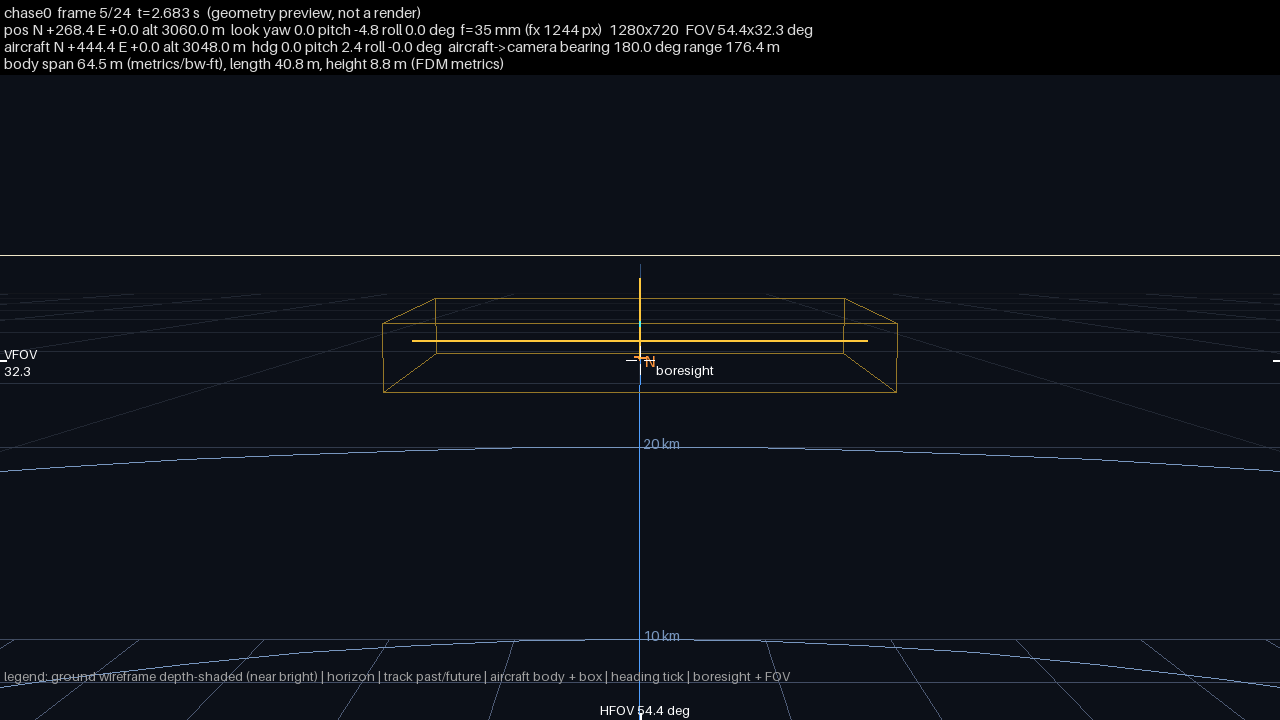
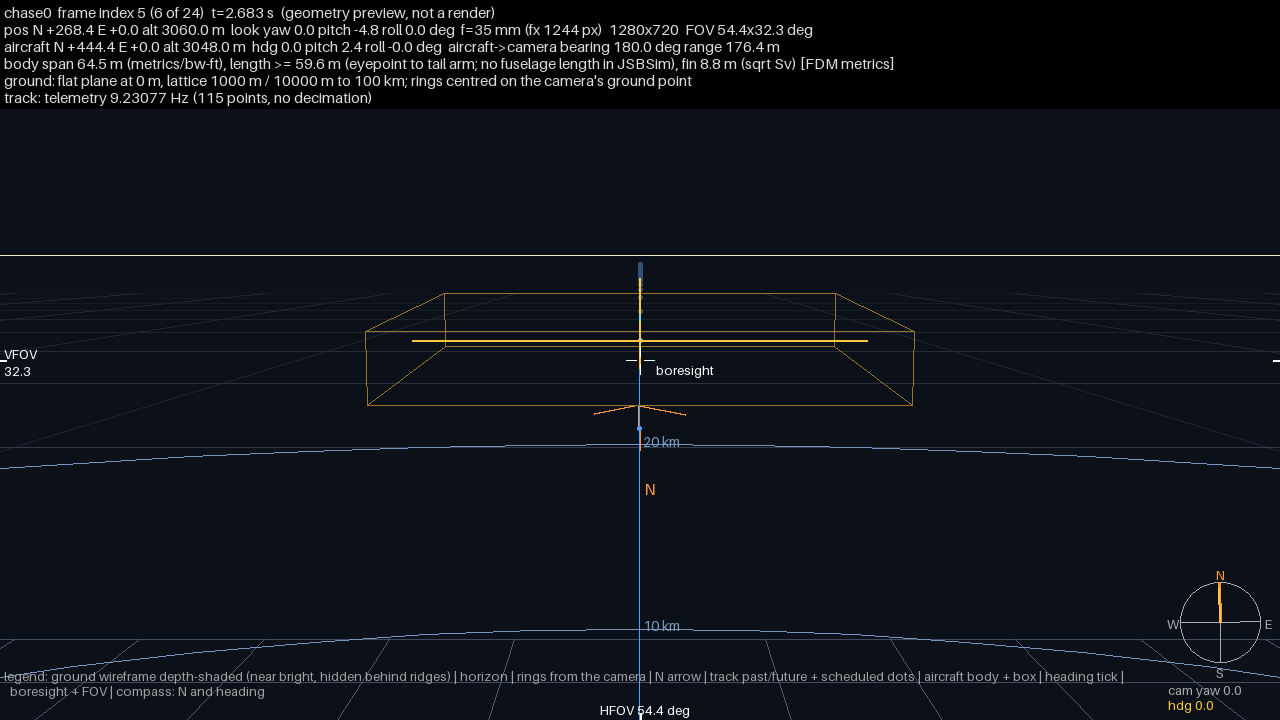
Docs: the round-2 preview described element by element with its measured numbers, the guard verification state stated honestly, a fresh reference image
The report's "Geometry preview" section is rewritten for round 2
(sources per element, the station-based length, 0.068 / 0.076 / 0.053
s/frame measured, the 32 tests, the overlay step 5c words), the
expected CLI output carries the track_source words, Known limitations
gains the skyline's coarse-spacing limit, the arrow cap and the
undecimated track. The reference image is frame index 5 of a fresh
cameras_multi run with this code (arrow 44.8 px, 10 km ring at row
629). The guard subset output as far as it ran (11 of 38, all ok) is
pasted and the 21 unverified guards are named as such. NEXT.md carries
the resume note and the first thing to run next session.

Claude-Session: https://claude.ai/code/session_01CxHEpg2pxDwukSHvSEVUfB

diff --git a/docs/CAMERA_PHASE1_REPORT.md b/docs/CAMERA_PHASE1_REPORT.md
@@ -89,7 +89,7 @@ table. Now:
 .venv/bin/python -m flightsim.verify runs/demo
 ```
 
-Expected without the engine (measured 2026-09-03 on Linux, exit 0;
+Expected without the engine (measured 2026-09-04 on Linux, exit 0;
 the JSBSim banner omitted; the default render choice resolves to
 `none` there, so `--render none` is implied):
 
@@ -97,7 +97,7 @@ the JSBSim banner omitted; the default render choice resolves to
 spec cef57d752362381d valid; running headlessly...
 scheduled 48 frames across 2 camera(s)
   manifest: runs/demo/capture_manifest.json
-  previews: 48 geometry preview(s) at 1280x720, 0.049 s/frame under runs/demo/previews (previews are not frames)
+  previews: 48 geometry preview(s) at 1280x720, 0.068 s/frame under runs/demo/previews (previews are not frames; track: telemetry 9.23077 Hz (115 points, no decimation))
   contact sheets: 2 (contact_sheets/<camera_id>.png, one per camera)
   [PASS] manifest_version: manifest_version 1, spec cef57d752362381d
   [PASS] fields_finite: 48 frame records checked
@@ -146,7 +146,7 @@ Temporal alignment across camera sets is exercised on real telemetry by
 same spec captured with a chase+tower set and again with a cockpit set
 aligns frame-for-frame (`flightsim.verify --against`).
 
-## Geometry preview (package I, done properly 2026-09-04)
+## Geometry preview (package I, done properly 2026-09-04; round 2 the same day)
 
 `core/capture/preview.py` draws one PNG per scheduled frame with numpy
 and Pillow only (matplotlib is not a dependency), every element
@@ -157,25 +157,41 @@ What a reader sees, and the field each element comes from:
 
 | element | drawn as | source |
 |---|---|---|
-| terrain (terrain scenes) | a 48 x 48 wireframe of the raster, each sample joined to its row and column neighbour, clipped at the near plane and to the image, shaded by camera-space depth: 240 at the frame's subject range (camera to aircraft) falling on a log scale to 32 at `far_m` | the heightfield, `near_m`, `far_m`, the aircraft state |
-| ground grid (flat scenes) | a fine lattice (step = the nice number at or above height/4) and a coarse one (10x that step) on the plane at the spec's terrain elevation, centred beneath the camera, extent = min(`far_m`, fy x height / 2) so it reaches the horizon or the far plane; distance rings at 500 m, 1, 2, 5, 10, 20 km labelled; a north arrow one step long where the boresight meets the plane | `position_*_m`, `fy_px`, `far_m`, the spec's terrain elevation |
+| terrain (terrain scenes) | a wireframe of the raster sampled every `terrain_stride_px` raster pixels (the smallest multiple of 4 giving at most 48 samples per axis: `control_ridge` 1024 px at 30 m is stride 24, 720 m, 43 x 43), each sample joined to its row and column neighbour, PLUS a fine lattice at a quarter of that stride (180 m) within 10 coarse steps (7.2 km) of the camera's ground point, so the near ground reads at the scale the aircraft is drawn; clipped at the near plane and to the image; shaded by camera-space depth: 240 at the frame's subject range (camera to aircraft) falling on a log scale to 32 at `far_m`; drawn far to near (painter's order) and HIDDEN behind nearer ground by a per-column skyline (`skyline_cull`: walking the segments near to far, each image column keeps the highest point drawn so far and a farther sample below it is behind a ridge) | the heightfield (name, size, pixel size: `Heightfield.metadata`), `near_m`, `far_m`, the aircraft state |
+| ground grid (flat scenes) | a fine lattice (step = the nice number at or above height/4) and a coarse one (10x that step) on the plane at the spec's terrain elevation, origin snapped to the step, extent = min(`far_m`, fy x height / 2) so it reaches the horizon or the far plane | `position_*_m`, `fy_px`, `far_m`, the spec's terrain elevation |
+| distance rings (every scene) | rings at 500 m, 1, 2, 5, 10, 20 km around the camera's EXACT ground point (never the snapped lattice origin: a ring labelled "10 km" is 10 km from the camera), labelled; in terrain scenes DRAPED on the raster (every ring point at the raster's elevation) and hidden behind ridges with the wireframe | `position_*_m`; the raster |
+| north arrow (every scene) | a world-space arrow on the ground pointing north, its world length set so its PROJECTION spans 60 px (capped at 0.3 x the base's depth when north is foreshortened to nothing), based where the ray 90 px below the boresight meets the ground (plane, or raster marched and bisected) so it sits clear of the aircraft an aimed camera centres; its "N" label placed clear of other labels (a label within 20 px of one already placed is shifted down) | the pose, the ground |
+| compass rose (every scene) | image-space, bottom-right, 40 px: the N/E/S/W spokes with north at screen angle -yaw (clockwise from up; a camera yawed 90 east has north to its left) and the aircraft's heading as a second needle at heading - yaw, both numbered ("cam yaw 231.3", "hdg 0.0") | `yaw_deg`, `aircraft.heading_deg` |
 | horizon | the level directions at infinity projected: `v = cy + fy tan(pitch)` for a level-rolled camera (a camera pitched down sees it ABOVE centre), tilted by roll | `quaternion_wxyz`, intrinsics |
-| aircraft | a three-axis body: nose-tail along the recorded heading and pitch, wing tips at +/- span/2 with the recorded roll, a fin up from the centre; the length x span x height box; a heading tick beyond the nose; the flown track (past solid, future dim) | `aircraft.*` per frame; `aircraft_metrics` (below) |
+| aircraft | a three-axis body: nose-tail along the recorded heading and pitch, wing tips at +/- span/2 with the recorded roll, a fin up from the centre; the length x span x height box; a heading tick beyond the nose | `aircraft.*` per frame; `aircraft_metrics` (below) |
+| flown track | the run's TELEMETRY (`telemetry_track`: the recorder's samples in the scene frame, decimated by the integer stride that brings the rate to at or below 10 Hz, never interpolated; the rate MEASURED as the recorder's median step, 9.23 Hz for this recorder's 13-step spacing), past solid and future dim split at the frame's `t_s`, with this camera's scheduled instants as dots on the line; without telemetry (a synthetic manifest) the manifest's scheduled instants, and the header says which | `telemetry.json` columns `t`, `lat_deg`, `lon_deg`, `altitude_m`; the frame records |
 | camera | a boresight cross at `principal_point_px` with the FOV `2 atan(sensor / 2 focal)` printed at the edges | `principal_point_px`, focal, sensor |
-| header | camera id, frame index / capture count, t, position, look yaw/pitch/roll, focal and fx, resolution, FOV; the aircraft's position, attitude, the aircraft-to-camera bearing and range; the body's span, length and height with their sources | the record; the camera block |
+| header | camera id, "frame index 5 (6 of 24)" (the manifest's 0-based index a verifier greps for AND the human count), t, position, look yaw/pitch/roll, focal and fx, resolution, FOV; the aircraft's position, attitude, the aircraft-to-camera bearing and range; the body's span, length (with its caveat, below) and fin with their sources; the ground ("terrain control_ridge 1024x1024 @ 30 m, wireframe 43x43 (720 m) + 180 m within 7.2 km of the camera; rings on the terrain", or the flat lattice's steps and extent); the track's source. Font and line height derive from the image height (15 px at 720, 8 at 360, 22 at 1080) and a line wider than the image is wrapped at its field separators | the record; the camera block; the heightfield; the telemetry |
 
 **The airframe metrics are read once from the FDM, never a constant**:
 `core.scenario.runner.aircraft_metrics(fdm)` reads `metrics/bw-ft`
-(span; the same property the span-station contact check uses),
-`metrics/lh-ft` + `metrics/cbarw-ft` (the wing-to-tail arm plus one
-mean chord: the FDM's longitudinal extent -- JSBSim states no
-nose-to-tail length, and the source string says so) and
+(span; the same property the span-station contact check uses) and
 `sqrt(metrics/Sv-sqft)` (the vertical tail area's square side: the
-FDM's only vertical extent). The run manifest and the capture manifest
-carry the block as `aircraft_metrics` (B747: span 64.47 m, length
-40.82 m, height 8.78 m). A manifest without it (a synthetic one) gets
-a fixed cross and a header line "aircraft_metrics absent: body
-unscaled" -- never a silent guess.
+FDM's only vertical extent). JSBSim states no nose-to-tail length, so
+the longitudinal extent is the LARGER of two distances between stations
+the FDM does state, each a lower bound on the fuselage: the extent of
+the stated structural stations (`metrics/eyepoint-x-in`,
+`metrics/visualrefpoint-x-in`, `metrics/aero-rp-x-in`, `inertia/cg-x-in`
+and the tail arm `metrics/aero-rp-x-in` + 12 x `metrics/lh-ft`), and
+the wing-to-tail arm plus one mean chord (`metrics/lh-ft` +
+`metrics/cbarw-ft`). Measured: B747 eyepoint 308 in to tail arm 2656 in
+= 59.6 m (arm + chord 40.8 m; the real fuselage is 70.7 m), c172p arm +
+chord 6.3 m (stations 4.9 m; real 8.3 m). The block carries
+`length_label` ("eyepoint to tail arm" / "arm + chord"),
+`length_caveat` ("no fuselage length in JSBSim"), both candidates
+(`length_candidates_m`) and a source string naming every station in
+inches; the picture's body line reads "length >= 59.6 m (eyepoint to
+tail arm; no fuselage length in JSBSim)" so a reader of the PNG alone
+sees the caveat. The run manifest and the capture manifest carry the
+block as `aircraft_metrics` (B747: span 64.47 m, length 59.64 m,
+height 8.78 m). A manifest without it (a synthetic one) gets a fixed
+cross and a header line "aircraft_metrics absent: body unscaled" --
+never a silent guess.
 
 **Resolution.** Full output resolution by default (the record's
 `width_px` x `height_px`); `--preview-scale N` on the CLI and the
@@ -183,42 +199,62 @@ page's "preview scale 1/N" field draw at 1/N, the header and the CLI
 line say so only when N is not 1, and a value that is not a positive
 integer is refused by name (`preview.scale`) before any flight.
 
-**Measured render time** (this machine, Linux, 2026-09-04, the 48
-frames of `examples/cameras_multi.yaml`, flat scene): 0.049 s/frame at
-1280x720 including the lattice, rings, track, body and header; 0.029
-s/frame at 1/2 scale; 0.064 s/frame including the contact sheets. The
-budget is 0.5 s/frame (`RENDER_BUDGET_S_PER_FRAME`), graded by
+**Measured render time** (this machine, Linux, 4 cores, 2026-09-04,
+round 2): 0.068 s/frame for the 48 frames of `examples/cameras_multi.yaml`
+at 1280x720 (flat scene: lattice, rings, arrow, compass, telemetry
+track, body, header); 0.076 s/frame for the 5 frames of
+`examples/cameras_waypoint.yaml` (280-point telemetry track); 0.053
+s/frame on the `control_ridge` terrain frame (chase0 index 5: 418
+coarse segments in frame, 98 hidden by the skyline, 38 fine, one ring)
+measured over 10 draws with `draw_preview` alone, 0.135 s/frame for
+the 30-preview CLI run of that scene before the raster sampling and
+the header measurement were vectorised (the profile: text measurement
+and `Heightfield.elevations()` per frame). The budget is 0.5 s/frame
+(`RENDER_BUDGET_S_PER_FRAME`), graded by
 `tests/test_camera_preview.py::test_full_resolution_render_time_is_under_budget`
-and printed by every run ("0.049 s/frame"); `run.json` `previews`
-records it.
+and printed by every run ("0.068 s/frame"); `run.json` `previews`
+records it, with `track_source`.
 
 **Overlays** (`overlays/<camera_id>/NNNN.png`): after an engine pass,
 `render_overlays` draws the same geometry as a translucent layer over
-every rendered PNG that exists (named by the same index, the frame's
-own size): the reprojected aircraft box, the ground and the horizon on
-the engine's pixels, so the verification is visible to the eye. The
-CLI prints "overlays: 48 reprojected-geometry overlay(s) ... (0.0xx
-s/frame)" and records `overlays {count, s_per_frame}` in `run.json`;
-the page lists `capture/overlays/<camera_id>` with the note
-"reprojected geometry over the rendered frame". Exercised here only
-against the honest engine STUB (a blob at the labelled pixel);
-"awaiting Windows verification" on real pixels, step 5c below.
+every rendered PNG that exists (named by the same index) at the
+frame's OWN size, whatever it is: a frame whose size differs from its
+record is drawn through the record's intrinsics scaled per axis by
+the actual ratio (fx and cx by width, fy and cy by height) and its
+header says so ("frame 640x360 differs from the record's 1280x720:
+intrinsics scaled to the frame, pixels not resampled"); the rendered
+pixels are never resampled, and the verifier, not the overlay, grades
+the mismatch. The header band is no darker than 96/255
+(`OVERLAY_BAND_ALPHA`). The CLI prints "overlays: 48
+reprojected-geometry overlay(s) ... (0.0xx s/frame)" and records
+`overlays {count, s_per_frame}` in `run.json`; the page lists
+`capture/overlays/<camera_id>` with the note "reprojected geometry
+over the rendered frame". Exercised here only against the honest
+engine STUB (a blob at the labelled pixel); "awaiting Windows
+verification" on real pixels, step 5c below.
 
 **Contact sheets** (`contact_sheets/<camera_id>.png`, beside
 `previews/`, never inside it -- `previews/` holds exactly one PNG per
 drawn frame): every preview of the camera as a 320-px-wide thumbnail
-with its index and time, a title row with camera id, preset, schedule
-basis and "N of M frames". Listed by the CLI and shown whole on the
-page above the per-frame gallery.
+labelled "#5 (6/24)  t=2.683 s" (index and count), a title row with
+camera id, preset, schedule basis and "N of M frames". Listed by the
+CLI and shown whole on the page above the per-frame gallery.
 
-**Reference image**: `docs/images/preview_chase0_frame5.png` is frame 5
-of `chase0` from the command above (t=2.683 s, camera at N +268.4, alt
-3060 m, pitch -4.8 deg): the horizon at row 256 (= 360 + 1244 tan(-4.8
-deg)), the 747's 64.5 m span drawn 455 px wide at 176 m range
-(1244 x 64.5 / 176 = 456), the box around it, the boresight cross, the
-10 km and 20 km rings and the coarse lattice dim in the distance.
+**Reference image**: `docs/images/preview_chase0_frame5.png` is frame
+index 5 of `chase0` from the command above (t=2.683 s, camera at N
++268.4, alt 3060 m, pitch -4.8 deg): the horizon at row 256 (= 360 +
+1244 tan(-4.8 deg)), the 747's 64.5 m span drawn 455 px wide at 176 m
+range (1244 x 64.5 / 176 = 456), the 59.6 m box around it, the
+boresight cross, the 10 km ring at row 629 (= 360 + 1244 tan(atan(3060
+/ 10000) - 4.8 deg): 10 km from the camera, not 10.27 km from the
+snapped lattice origin), the 20 km ring, the telemetry track through
+the aircraft with the scheduled dots, the north arrow 90 px below the
+boresight (45 px long: its base is 19.6 km out where north is
+foreshortened, and the 0.3 x depth cap, 5.9 km, holds it under 60 px), the compass with N up (yaw 0) and the
+heading needle on it, the coarse lattice dim in the distance. Byte-
+identical to a fresh run of the command (`cmp`).
 
-**Tests** (`tests/test_camera_preview.py`, 20 tests on synthetic
+**Tests** (`tests/test_camera_preview.py`, 32 tests on synthetic
 records with known poses): the level camera's horizon row equals cy
 within 1 px and a ground point ahead lands below it; pitch -10 deg
 moves it by fy tan(pitch); the body centre equals `project_point` of
@@ -227,11 +263,70 @@ range within 1 px and halves at twice the range; roll and heading move
 the tips and nose as recorded; a segment behind the camera is not
 drawn, even when its mirrored projection would land in frame; the
 default size is the record's; the header carries the position, look
-and focal strings; the overlay is the frame's size with the body at
-the reprojected pixel; one contact sheet per camera with one thumbnail
-per frame; the render time is under budget. 15 mutation guards
-(`scripts/mutation_check.sh`, "the geometry preview") disable each
-safeguard in turn and were verified to fail their tests.
+and focal strings and the exact "frame index 5 (6 of 24)"; the overlay
+is the frame's size with the body at the reprojected pixel; one
+contact sheet per camera with one thumbnail per frame; the render time
+is under budget. Round 2 adds: two crossing segments given far-last
+leave the near colour on the crossing pixel; a two-ridge heightfield
+(near 300 m at 1 km, far 150 m at 2 km) hides the far crest where it
+crosses the near face (the near column line's bright green is on that
+pixel, the far row's dim green is nowhere in its 3x3 window, and the
+far crest is background along the frame); a 200-point half-circle
+telemetry at 20 Hz is decimated to 101 points at 10 Hz with the words
+"track: telemetry 20 Hz decimated to 10 Hz (101 points)", intermediate
+(never scheduled) points lie on the drawn track in the past colour
+before the frame's instant and the future colour after, the chord
+midpoint between two instants (90 m inside the arc) is background, and
+the recorder's median step, not the mean, sets the rate; the 10 km
+ring's forward point projects at cy + fy tan(atan(3060/10000) - 4.8
+deg) within 1 px (9.6 px from the snapped value) and the pixel there is
+ring-coloured; the compass's N spoke sits at -yaw for yaw 0, 90 and
+231.3 and its pixel is north-coloured, the heading needle at heading -
+yaw; the north arrow is 60 px on screen within 1 px in a flat and a
+terrain scene with its base on the ground at the pixel 90 px below
+the boresight; a 640x360 and a 1920x1080 frame against a 1280x720
+record get overlays of their own size with the body centre at
+`project_point` times the ratio within 1 px, a corner pixel unchanged,
+the band no darker than 96/255 and no header line wider than the
+frame; the terrain header names the raster ("terrain synthetic 9x9 @
+100 m, wireframe 9x9 (100 m)"), a raster vertex projects at its pixel
+in terrain green, and the 500 m ring is draped on the raster and drawn;
+the fine lattice lies within its radius at the raster's spacing and
+never on a coarse line; the body line carries the caveat; the runner's
+B747 length is 59.644 m from the named stations with both candidates.
+The CLI and page tests assert the run's `track_source` equals the
+words computed from the run's own telemetry. 36 mutation guards
+(`scripts/mutation_check.sh`, "the geometry preview" and "preview round
+2") disable each safeguard in turn; the runner's `--only <label regex>`
+runs a named subset. **Verification state, honestly**: the round-2
+subset run (38 guards: the 15 round-1 preview guards, two of them
+repointed to lines the rewrite moved, one pre-existing stale CLI guard
+repointed, the two frames-provenance guards and the 21 new round-2
+guards) was stopped after 11 guards, all 11 firing, when the session
+was closed; its output as far as it got:
+
+```
+  ok    a frames run records its passes and its clip in provenance -- tests fail with the guard removed
+  ok    the CLI records its passes and its clip beside the run's digests -- tests fail with the guard removed
+  ok    the preview draws the horizon at the camera's pitch and roll -- tests fail with the guard removed
+  ok    the aircraft body is scaled by the FDM's span at the frame's range -- tests fail with the guard removed
+  ok    a segment behind the camera is never drawn -- tests fail with the guard removed
+  ok    previews default to the record's full resolution -- tests fail with the guard removed
+  ok    a preview scale that is not a positive integer refuses by name -- tests fail with the guard removed
+  ok    the ground is depth-shaded, near bright and far dim -- tests fail with the guard removed
+  ok    the header states position, look direction and focal length -- tests fail with the guard removed
+  ok    every camera gets a contact sheet of its previews -- tests fail with the guard removed
+  ok    the preview render time is measured per frame and recorded -- tests fail with the guard removed
+  ok    the run manifest carries the airframe metrics read from the FDM -- tests fail with the guard removed
+  ok    the capture manifest carries the airframe metrics the body is scaled by -- tests fail with the guard removed
+```
+
+The 21 round-2 guards are written against target strings verified to
+be present in the source and each names the test that grades its
+safeguard, but they have NOT been run through the runner: until
+`./scripts/mutation_check.sh --only 'preview round 2'` prints "ok" for
+each, they are not verified firing, and this document says so rather
+than counting them.
 
 ## The run emits frames, not a clip (finished 2026-09-03)
 
@@ -493,7 +588,7 @@ spec cef57d752362381d valid; running headlessly...
   card:     runs\demo\card.json (consume-poses; one commandlet pass per camera via -camera-index=N)
 scheduled 48 frames across 2 camera(s)
   manifest: runs\demo\capture_manifest.json
-  previews: 48 geometry preview(s) at 1280x720, 0.0xx s/frame under runs\demo\previews (previews are not frames)
+  previews: 48 geometry preview(s) at 1280x720, 0.0xx s/frame under runs\demo\previews (previews are not frames; track: telemetry 9.23077 Hz (115 points, no decimation))
   contact sheets: 2 (contact_sheets/<camera_id>.png, one per camera)
 engine pass 1 of 2: camera 'chase0', 24 frames scheduled over the 12 s run (-camera-index=0)
   camera 'chase0': 24 of 24 scheduled frames rendered under runs\demo\frames\chase0 (engine stepped 11.992 s in 1439 steps)
@@ -715,15 +810,26 @@ start runs\demo\overlays\chase0\0005.png
 start runs\demo\overlays\tower0\0010.png
 ```
 
-The count must print 24 (and 24 for tower0). In `chase0\0005.png` the
-yellow wing line (64.5 m at 176 m range: 455 px wide) must lie across
-the rendered 747's wings and the box enclose the fuselage, to within
+The count must print 24 (and 24 for tower0). In `chase0\0005.png` (the
+header reads "frame index 5 (6 of 24)") the yellow wing line (64.5 m
+at 176 m range: 455 px wide) must lie across the rendered 747's wings
+and the 59.6 m box enclose most of the fuselage (the box is the FDM's
+eyepoint-to-tail-arm extent, 11 m short of the real 70.7 m, and the
+header says "no fuselage length in JSBSim"), to within
 the frame's graded pixel budget the verifier prints ("aircraft drawn
 within x.xx m", about 10 px at this range); the horizon line must run
 along the rendered horizon (the flat scene's ground plane edge) and the
-lattice recede toward it. In `tower0\0010.png` the aircraft is 3 km
-away: a 26 px span line on the rendered aircraft, the track line along
-its path, no horizon in frame (the tower looks up 75 deg). A wing line
+lattice recede toward it; the blue track through the aircraft must be
+the flown path (the telemetry, 115 points) with the 24 scheduled dots
+on it, and the header band at the top must leave the rendered pixels
+readable through it (alpha 96/255, not black). In `tower0\0010.png` the
+aircraft is 3 km away: a 26 px span line on the rendered aircraft, the
+track line along its path, no horizon in frame (the tower looks up 75
+deg), the compass in the corner with N at -94.1 deg (the tower's yaw).
+A frame the engine wrote at a size other than the record's gets its
+overlay at the frame's own size with the intrinsics scaled and a
+header note saying so -- if that note appears, the engine's resolution
+setting, not the overlay, is what to check. A wing line
 beside, not on, the rendered aircraft is the SAME disagreement engine
 parity grades numerically, and the frame's `render.json` record says
 which side (`aircraft_px` against the manifest's labelled pixel); a
@@ -793,14 +899,33 @@ Paste every log back; this section is rewritten from them.
   only; there is no frames-mode cap, by design: the schedule is the
   contract.
 * The geometry preview's aircraft is a three-axis body and a box, not
-  a silhouette, and its LENGTH is the FDM's wing-to-tail arm plus one
-  mean chord (40.8 m for the B747, whose fuselage is 70.7 m) because
-  JSBSim states no nose-to-tail length; the header and the manifest
-  say exactly which metric each dimension is. The span (metrics/bw-ft)
-  is the airframe's own.
+  a silhouette, and its LENGTH is a lower bound: the larger of the
+  FDM's stated-station extent (eyepoint to tail arm, 59.6 m for the
+  B747 whose fuselage is 70.7 m) and the wing-to-tail arm plus one
+  mean chord (6.3 m for the c172p, whose fuselage is 8.3 m), because
+  JSBSim states no nose-to-tail length; the picture's header says
+  ">= ... (no fuselage length in JSBSim)" and the manifest names every
+  station. The span (metrics/bw-ft) is the airframe's own.
 * The overlays have been drawn over the honest engine stub only; over
   real rendered pixels they are NOT YET RUN (step 5c above).
-* Terrain scenes have no distance rings or north arrow (the wireframe
-  and the horizon carry the scale there); flat scenes have both.
+* The terrain skyline cull hides ground behind nearer ground per image
+  column from the wireframe's own samples: a ridge narrower than the
+  coarse spacing (720 m on control_ridge) between two sample rows does
+  not occlude, and a farther sample within 1 px of the skyline is kept
+  (`SKYLINE_TOLERANCE_PX`). The fine lattice near the camera (180 m)
+  narrows that gap only within 7.2 km. The cull orders samples by
+  their camera depth interpolated linearly along each segment, not
+  perspective-correctly; over a 720 m segment that is a metre-scale
+  depth error, far below the 1 px tolerance at the ranges drawn.
+* The north arrow's world length is set by its projected size and
+  capped at 0.3 x its base's depth: where north is foreshortened to
+  nothing (the flat chase view's arrow base 36 km out) it is shorter
+  than 60 px (45 px there) and the compass rose carries the
+  orientation; the header's compass numbers are the record's yaw and
+  heading, never estimated from the arrow.
+* The telemetry track is decimated by an integer stride to at most
+  10 Hz and never interpolated; the recorder's own spacing (13 fixed
+  steps, 9.23 Hz) is below that, so today's tracks are undecimated and
+  the header says so.
 * Segmentation masks, bounding boxes, domain randomization, batch
   execution: out of scope, untouched.

diff --git a/NEXT.md b/NEXT.md
@@ -3,6 +3,64 @@
 **Fresh session? Read docs/CONTEXT_SCENE_DIRECTOR_SESSION.md and
 docs/CONTEXT_PHASE8B_SESSION.md first**, then this file's gotchas 1-26.
 
+**Camera Phase 1, preview round 2 (2026-09-04, the judge's nine ranked
+gaps against bar section 3, closed in order; docs/CAMERA_PHASE1_REPORT.md
+"Geometry preview" is current and SUPERSEDES round 1's description).**
+core/capture/preview.py: (1) terrain segments drawn far to near and
+HIDDEN behind nearer ground by a vectorised per-column skyline
+(skyline_cull: samples sorted by column then depth, the running
+minimum v before each sample, hidden when below it by more than 1 px;
+sub-segments rebuilt from the visible runs); (2) the flown track is
+the run's telemetry (telemetry_track: integer-stride decimation to
+<= 10 Hz, the rate as the recorder's MEDIAN step, 9.23 Hz for its
+13-step spacing, never the mean), past/future split at the frame's
+t_s, this camera's scheduled instants as dots, the header and run.json
+"track_source" say which; the CLI and webapp/capture.py pass columns
+(CaptureOutcome.telemetry carries them to the overlays); (3) rings
+around the camera's EXACT ground point (plan camera_north_m/east_m),
+the lattice keeps its snapped origin; (4) an image-space compass
+(north at -yaw, heading needle at heading - yaw, bottom-right) in
+every scene, the world arrow sized by its PROJECTION (secant steps,
+capped 0.3 x depth) and based on the ray 90 px below the boresight
+(NORTH_ARROW_DROP_PX; terrain: marched + bisected on the raster),
+labels shifted when within 20 px of another; (5) overlays at the
+frame's own size for any ratio (axis_scale per axis, never resampled),
+header font from the image height, lines wrapped at field separators,
+band alpha <= 96; (6) header line "terrain <name> WxH @ px m, wireframe
+NxN (spacing) + fine within R km; rings on the terrain" from
+terrain_plan, the coarse stride now a multiple of 4 raster px
+(control_ridge: 24 px = 720 m, 43x43), a fine lattice at stride/4
+within 10 coarse steps, rings draped on the raster and culled with
+it; (7) runner.aircraft_metrics: length = the LARGER of the stated-
+station extent (eyepoint/VRP/aero RP/CG/tail arm = aero RP + 12 lh)
+and arm + chord, with length_label, length_caveat and both candidates
+(B747 59.6 m eyepoint to tail arm; c172p 6.3 m arm + chord) and the
+picture reads "length >= 59.6 m (...; no fuselage length in JSBSim)";
+(8) "frame index 5 (6 of 24)" / "#5 (6/24)"; (9) scripts/
+mutation_check.sh --only <label regex> runs a named subset (baseline
+and restore still run the whole suite), 21 new guards + 3 repointed
+(two of round 1's whose target lines changed, one PRE-EXISTING stale
+CLI guard whose record.update call had gained a key); the subset
+run was stopped after 11 of 38 (all 11 fired, the 3 repointed ones
+among them) -- the 21 NEW guards are NOT yet verified firing: run
+./scripts/mutation_check.sh --only 'preview round 2' (or the
+scratchpad subset builder) FIRST in the next session and fix any WEAK. Measured: 0.068 s/frame on cameras_multi (48
+frames), 0.076 on cameras_waypoint, 0.053 on the control_ridge frame
+(draw_preview alone; the first cut was 0.135 until the raster
+sampling and header measurement were vectorised -- text measurement
+was the profile's top entry). Gotchas: (a) the info key "terrain" is
+the count of coarse segments IN FRAME and "terrain_visible" the count
+after the cull, so round 1's "> 100" assertion stands at full
+strength; (b) the recorder's samples are 13 steps apart, not 12: a
+test that assumes "10 Hz" fails -- compute the words from the run's
+telemetry; (c) the raster lattice column nearest east 0 sits at
+-0.44 m in the synthetic fields: grade pixels on the lattice's own
+columns, not at east 0; (d) the arrow at the boresight hit lands ON
+the aircraft an aimed camera centres, hence the 90 px drop; (e) a
+mutation run rewrites preview.py, runner.py, flightsim/capture.py and
+webapp/capture.py in place -- never edit or test while one runs.
+NOT YET RUN: overlays on real engine pixels (report step 5c).
+
 **Camera Phase 1, preview round 1 (2026-09-04, the geometry preview
 done properly against bar section 3; docs/CAMERA_PHASE1_REPORT.md
 "Geometry preview" is the description).** core/capture/preview.py
